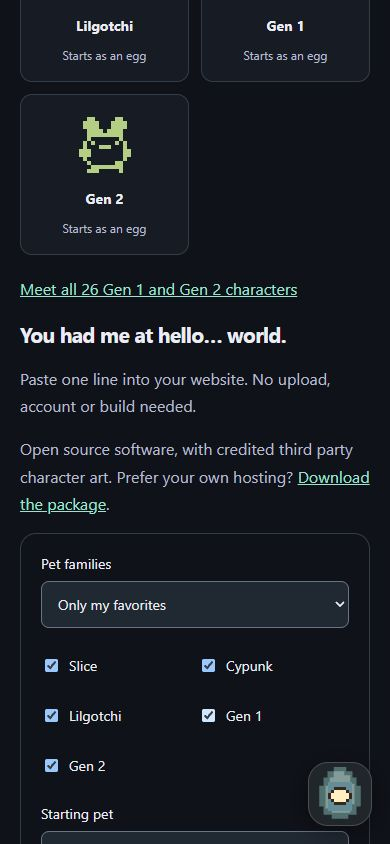
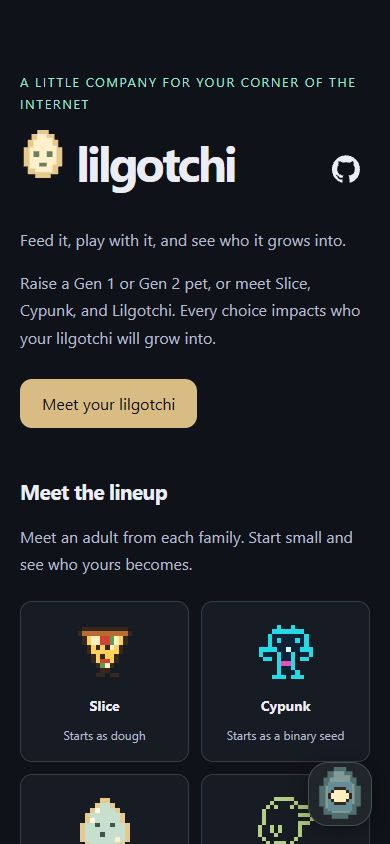
split homepage intro and lineup

diff --git a/index.html b/index.html
@@ -16,12 +16,17 @@
     .github { display:grid; place-items:center; width:48px; height:48px; flex:none; color:#ececf4; border-radius:12px; }
     .github:hover { background:#202832; }
     footer { text-align:center; }
-    footer { margin-top: 48px; padding-top: 24px; border-top: 1px solid #343c48; color: #b7bbce; font-size: 14px; }
+    footer { margin-top: 48px; padding-top: 24px; color: #b7bbce; font-size: 14px; }
     .label { font-size: 13px; letter-spacing: .12em; text-transform: uppercase; color: #9de4ce; }
     pre { background:#171c24; padding:18px; border:1px solid #343c48; border-radius:12px; overflow:auto; font-size:12px; line-height:1.8; }
     .try { cursor:pointer; font:inherit; color:#101219; background:#d9bc83; border:0; border-radius:12px; padding:14px 22px; min-height:48px; margin:12px 0 36px; }
     h2 { font-size:21px; letter-spacing:-.03em; }
     button:focus-visible,a:focus-visible { outline:2px solid #9de4ce; outline-offset:5px; }
+    .hero { display:grid; grid-template-columns:minmax(0,1fr) minmax(0,1.15fr); gap:56px; align-items:center; margin-bottom:48px; }
+    .hero > section { min-width:0; }
+    .hero .gallery { grid-template-columns:repeat(3,minmax(0,1fr)); }
+    .hero .try { margin-bottom:0; }
+    @media(max-width:900px) { .hero { grid-template-columns:minmax(0,1fr); gap:32px; } }
     .gallery { display:grid; grid-template-columns:repeat(auto-fit,minmax(120px,1fr)); gap:12px; margin:24px 0 20px; }
     .gallery button { display:flex; flex-direction:column; align-items:center; justify-content:end; gap:12px; min-height:160px; padding:18px 10px; font:inherit; color:inherit; background:#171c24; border:1px solid #343c48; border-radius:12px; cursor:pointer; }
     .gallery button:hover { border-color:#9de4ce; background:#202832; }
@@ -39,11 +44,13 @@
     #setup pre { margin:0; white-space:pre-wrap; overflow-wrap:anywhere; }
     .copy-status { min-height:24px; margin:0; } #setup button:disabled { opacity:.6; }
     @media(max-width:700px) { #setup { grid-template-columns:minmax(0,1fr); padding:20px; gap:16px; } }
-    @media(max-width:500px) { .gallery { grid-template-columns:repeat(2,minmax(0,1fr)); } body { padding:24px 20px 100px; } main { margin:4vh auto; } }
+    @media(max-width:500px) { .hero .gallery { grid-template-columns:repeat(2,minmax(0,1fr)); } body { padding:24px 20px 100px; } main { margin:4vh auto; } }
   </style>
 </head>
 <body>
   <main>
+    <div class="hero">
+    <section aria-label="About lilgotchi">
     <p class="label">A little company for your corner of the internet</p>
     <div class="title-row">
       <h1><img src="./widget/egg.svg" width="46" height="54" alt=""> lilgotchi</h1>
@@ -52,13 +59,16 @@
     <p>Feed it, play with it, and see who it grows into.</p>
     <p>Raise a Gen 1 or Gen 2 pet, or meet Slice, Cypunk, and Lilgotchi. Every choice impacts who your lilgotchi will grow into.</p>
     <button class="try" type="button">Meet your lilgotchi</button>
-    <h2>Meet the lineup</h2>
+    </section>
+    <section aria-labelledby="lineup-title">
+    <h2 id="lineup-title">Meet the lineup</h2>
     <p>Meet an adult from each family. Start small and see who yours becomes.</p>
     <div class="gallery" aria-label="Choose your pet"></div>
     <p><a href="./design/evolution/?family=original">Meet all 26 Gen 1 and Gen 2 characters</a></p>
+    </section>
+    </div>
     <h2>You had me at hello… world.</h2>
     <p>Paste one line into your website. No upload, account or build needed.</p>
-    <p>Open source software, with credited third party character art. Prefer your own hosting? <a href="https://github.com/TaylorOD/lilgotchi/releases/tag/v3.0.0">Download the package</a>.</p>
     <form id="setup" onsubmit="return false">
       <label>Pet families <select name="roster"><option value="all">All five families</option><option value="selected">Only my favorites</option></select></label>
       <div class="character-options" aria-label="Available families" hidden></div>
@@ -70,6 +80,7 @@
       <p>Each pet keeps its own game colors. These settings generate your install code and leave your demo pets alone.</p>
       <pre><code></code></pre><button type="button" class="copy">Copy install code</button><p class="copy-status" role="status"></p>
     </form>
+    <p>Open source software, with credited third party character art. Prefer your own hosting? <a href="https://github.com/TaylorOD/lilgotchi/releases/tag/v3.0.0">Download the package</a>.</p>
     <footer>A <a href="https://www.taylordorsett.com/">Taylor Dorsett</a> production</footer>
   </main>
   <script type="module" src="./lilgotchi.js"></script>
